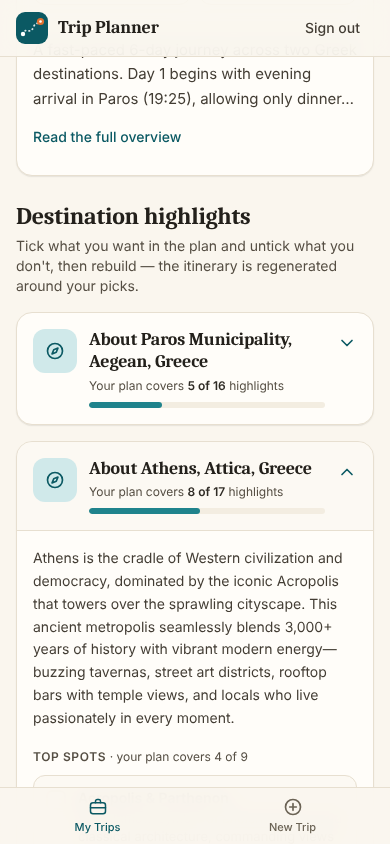
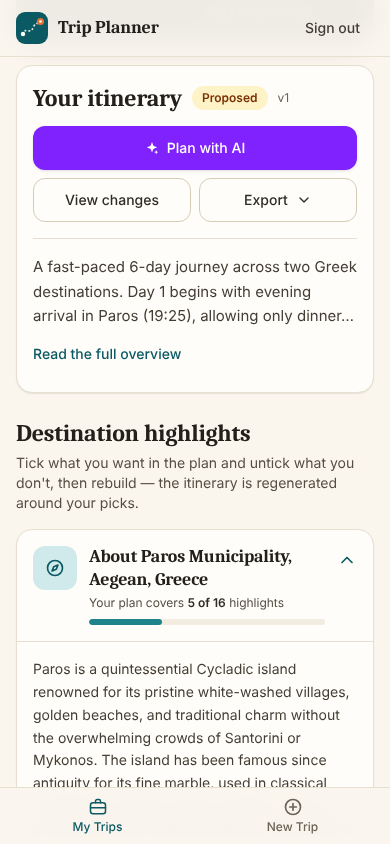
Polish: stacked time fields on phones, retake after screenshots, design polish notes
Claude-Session: https://claude.ai/code/session_01PC23SS3zAkNJ7ZTH6iAGgp

Changed region(s): [[0.0308, 0.0616, 0.9231, 0.6469], [0.0615, 0.6469, 0.8923, 0.9858]]

diff --git a/components/itinerary/ItineraryView.tsx b/components/itinerary/ItineraryView.tsx
@@ -770,7 +770,7 @@ function ActivityEditForm({
             value={description}
             onChange={(e) => setDescription(e.target.value)}
             disabled={saving}
-            rows={2}
+            rows={3}
             className="w-full rounded-xl border border-zinc-300 bg-white px-3 py-2 text-base text-zinc-900 placeholder:text-zinc-500 sm:text-sm focus:border-transparent focus:outline-none focus:ring-2 focus:ring-indigo-500 disabled:cursor-not-allowed disabled:bg-zinc-50 disabled:text-zinc-500"
             placeholder="Optional description"
           />

diff --git a/docs/design/ux-brief.md b/docs/design/ux-brief.md
@@ -125,3 +125,43 @@ checkboxes behind the guide cards, `aria-current` on nav and the active day chip
 - Dark mode. A half-done dark theme is worse than none, so the page declares a light colour scheme.
 - Invented copy or numbers: stats, "free time" gaps and budget bars are computed from the itinerary;
   the landing page preview is labelled as a sample.
+
+## Design polish
+
+Pass done on top of the redesign above. Identity (paper, teal, violet for AI, serif display) is unchanged; no flows or routes changed.
+Screenshots in `docs/design/after/` were retaken from a production build in demo mode at 1280x800 and 390x844
+(landing, dashboard, new trip, trip top, day-by-day, activity edit, activity revise, destination guide, Plan with AI,
+change history, 404). Stale captures from the QA report (clipped Plan with AI panel, old "greece 2026" title) are replaced.
+
+**Changed**
+- Contrast (axe, WCAG 2.1 AA): demo pill white on sun-500 was 3.2:1, now sun-700 (new token) at 11px; the rest-state
+  "Revise" action was dimmed to 60% opacity and failed (3.4:1), now 75% on desktop and full on hover/focus.
+  Placeholder and small grey text moved one step darker.
+- Structure found by axe: stats `dl` had an invalid child (`p` inside `div`), guide sub-headings skipped a level
+  (h4 under h2), the Type select and the description/revise textareas had labels that were not linked to the control,
+  and the demo banner sat outside any landmark. All fixed.
+- Removed template tells: the "AI-assisted trip planning" pill above the landing headline, the uppercase "404" and
+  "Not found" kickers, uppercase micro-headings in the guide and booking form, and glass stat tiles on the trip hero
+  (now a quiet ruled row with sentence-case labels and tabular numerals). The nav keeps a light blur because it is a
+  sticky bar over scrolling content; the drawer scrim blur was decoration and is gone.
+- Icons: text glyphs used as icons (arrows, up/down/close on the new-trip city rows, "Open →") are now drawn SVGs in
+  one stroke weight (`components/ui/Icons.tsx`).
+- Touch targets on phones: logo link, Active/Archived switch now 44px. Textareas and the Type select are 16px on
+  phones (no iOS zoom) and tall enough that the placeholder is not clipped; start time and duration stack under 460px
+  instead of clipping the time value.
+- Consistency: textareas and selects use the 12px control radius like inputs; the inline "Revise" submit uses the AI
+  violet like every other AI control; day strip is opaque so day headers no longer show through it.
+- Copy: Plan with AI example no longer suggests a Czech dish for a Greece trip; empty change history says what will
+  appear there; revise placeholder shortened.
+- Browser surfaces: themed text selection, caret colour, scrollbar colour, tabular numerals on data.
+
+**Deliberately left**
+- Hero stat row and the 1-2-3 "What happens next" list: the stats are derived data, the list is a real sequence.
+- Landing headline italic "you": established identity, kept.
+- Dark mode: still not supported, page declares a light scheme.
+- Dashboard card title link is 23px tall on phones, but the whole card is the tap target.
+- Error boundary and loading skeleton were checked with a temporary throwing page and rendered correctly; no
+  screenshots are stored because they need a throwaway route.
+- Auth pages checked only with Supabase unconfigured (no sign-in attempted). Consulting chat, booking forms and
+  the generating overlay were not visually re-reviewed.
+- Fixture itinerary content (ferry 08:00 vs flight 09:30) still needs a product decision.
